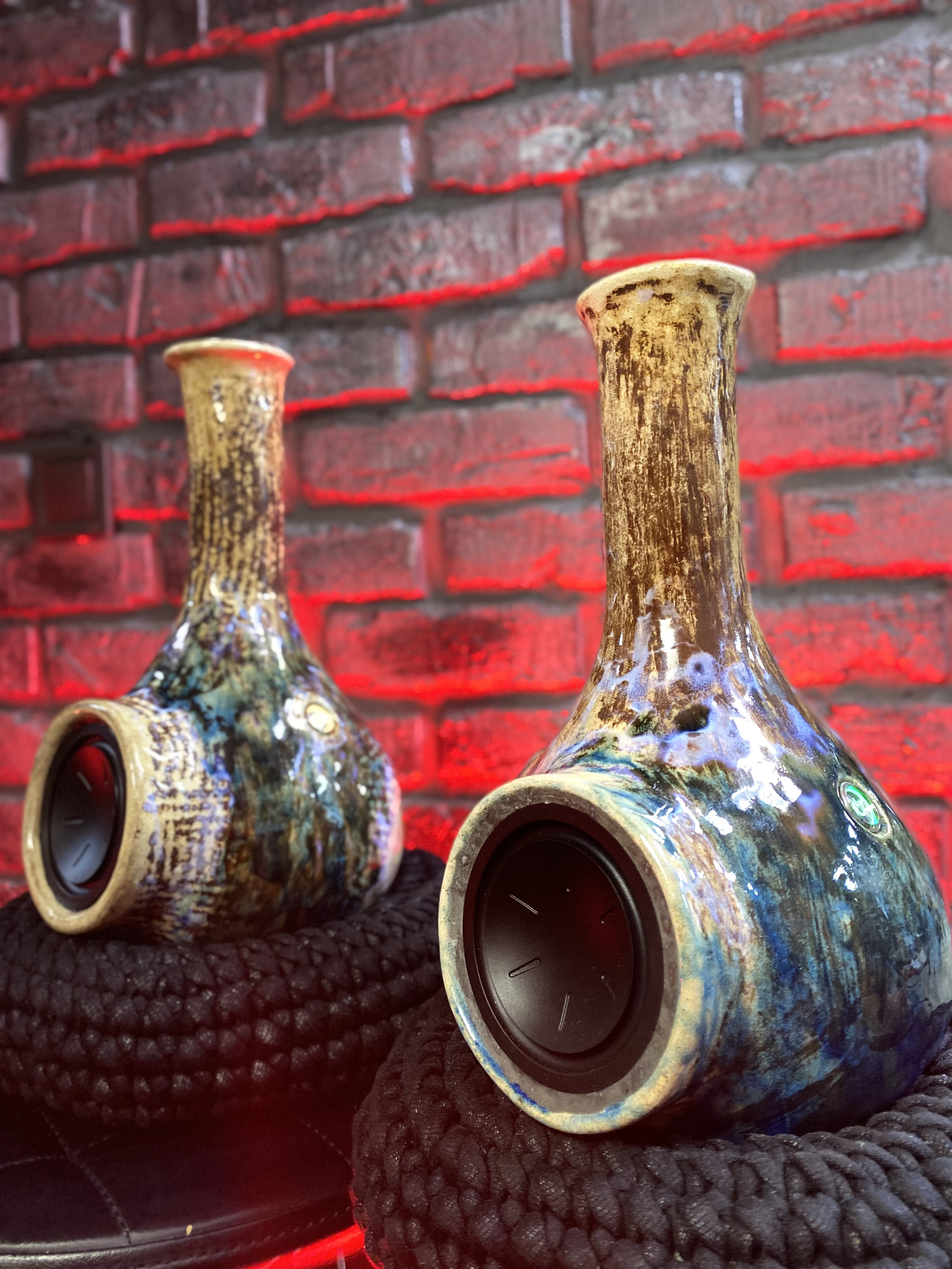
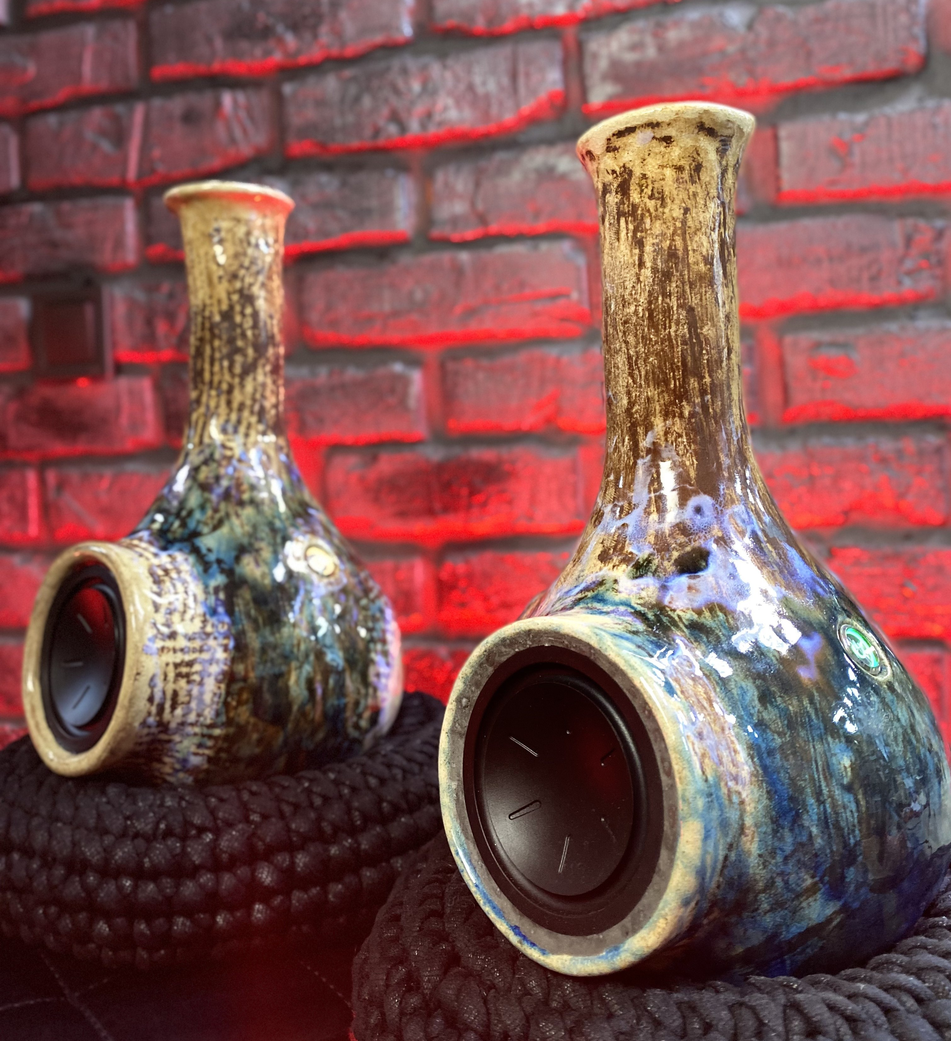
working with media.thml

diff --git a/src/html/index.html b/src/html/index.html
@@ -10,7 +10,6 @@
   <link rel="stylesheet" href="../styles/index/head-info-bar.css">
   <link rel="stylesheet" href="../styles/index/nav.css">
   <link rel="stylesheet" href="../styles/index/main-page.css">
-  <link rel="stylesheet" href="../styles/index/bottom-info-bar.css">
 </head>
 <body>
   <div>
@@ -33,7 +32,7 @@
           <li><a href="media.html">Gallery</a></li>
           <li><a href="#contact">Contact us</a></li>
           <li class="sign-up">
-            <a href="form.html" class="signup-btn">Sign up</a>
+            <a href="sign-up.html" class="signup-btn">Sign up</a>
           </li>
         </ul>
       </div>

diff --git a/src/html/media.html b/src/html/media.html
@@ -20,7 +20,14 @@
       </a>
     </strong>
   </p>
+  <div class="card" style="width: 45rem;">
+    <img src="../images/main-speaker/main.JPG" class="card-img-top" alt="...">
+    <div class="card-body">
+      <h5 class="card-title">Card title</h5>
+      <p class="card-text">Some quick example text to build on the card title and make up the bulk of the card’s content.</p>
+      <a href="sign-up.html" class="btn btn-terracotta btn-lg w-100 shadow-sm">Buy</a>
+    </div>
+  </div>
 </div>
-
 </body>
 </html>

diff --git a/src/styles/media/media.css b/src/styles/media/media.css
@@ -11,6 +11,11 @@ align-items: center;
 justify-content: center;
 padding: 10px; 0;
 }
+.btn-terracotta {
+  background-color: #8B5E3C;
+  border-color: #8B5E3C;
+  color: white;
+}
 
 .back-home{
     color: white;
@@ -21,4 +26,9 @@ padding: 10px; 0;
 
 .back-home:hover{
     color: black;
+}
+
+.btn-terracotta:hover {
+  background-color: #7a5032;
+  border-color: #7a5032;
 }

diff --git a/src/styles/form/sign-up.css b/src/styles/form/sign-up.css
@@ -1,5 +1,5 @@
 body{
-background: linear-gradient(120deg, #0f2027, #203a43, #2c5364);
+background: linear-gradient(150deg, #0f2027, #203a43, #2c5364);
 }
 
 .btn-terracotta {
@@ -15,7 +15,6 @@ background: linear-gradient(120deg, #0f2027, #203a43, #2c5364);
 
 .head-info-bar{
 display: block;
-z-index: 1000;
 }
 
 .head-info-bar-text{
